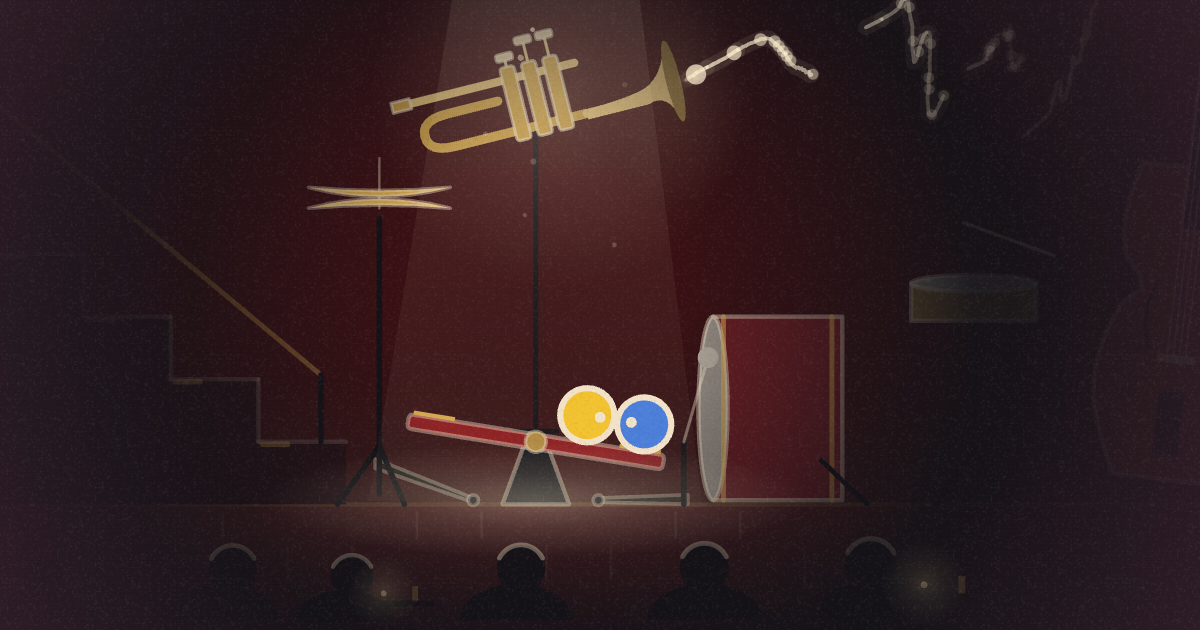
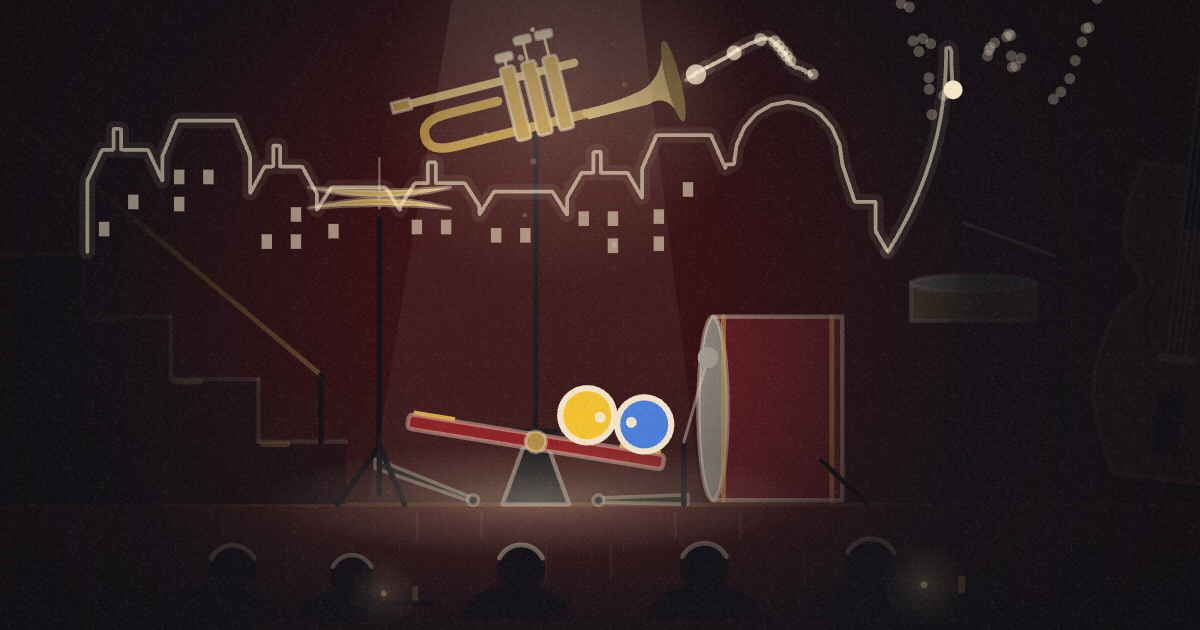
craft(epilogue): less is more: five recent additions cut
A director's subtraction pass over what the last rounds added. Cut:

- the waltz's braided coil in the sky, which crowded the constellation and
  the gold piano the scene is about;
- the hill's rows of houses, which competed with the machine climbing it;
- the home movie's hand-held sway, on top of the gate's own weave;
- the dream's rose edge, now said by the narrow and wide frame, and a muddy
  haze over the drive and the last room;
- the audition's gold star, a second gesture after the pen's signature.

Their two checks go with them. The share card is made again without the rose.

diff --git a/apps/rube/checks/sebs.ts b/apps/rube/checks/sebs.ts
@@ -5,7 +5,7 @@
 import type { Performance, Version } from '../src/shows/registry'
 import type { ShowBall } from '../src/show'
 import { R } from '../src/parts'
-import { FIGURE_AT, FIGURE_SIZE, FIGURE_TURN, KINDLED, figureDraw, inSky, waltzTrail } from '../src/shows/versions/la-la-land/sebs/night/stars'
+import { FIGURE_AT, FIGURE_SIZE, FIGURE_TURN, KINDLED, figureDraw, inSky } from '../src/shows/versions/la-la-land/sebs/night/stars'
 import { DIP, sebAt } from '../src/shows/versions/la-la-land/sebs/night/painted-waltz'
 import { OUT as HOLLY_OUT } from '../src/shows/versions/la-la-land/sebs/studio/hollywood'
 import { show as sebsShow, covers as sebsCovers } from '../src/shows/versions/la-la-land/sebs'
@@ -23,7 +23,7 @@ import { emptyAt } from '../src/shows/versions/la-la-land/sebs/theatre/theatre'
 import { HORIZON, SIGN_AT, SIGN_U, THEIRS, THEIRS_AT, THEIRS_FIGURE } from '../src/shows/versions/la-la-land/sebs/city'
 import { LIPTONS_CALL } from '../src/shows/versions/la-la-land/sebs/liptons/room'
 import { TABLE_CALL } from '../src/shows/versions/la-la-land/sebs/club/opening'
-import { SONG_COUNT, partStar, songAt } from '../src/shows/versions/la-la-land/sebs/audition/shadow'
+import { SONG_COUNT, songAt } from '../src/shows/versions/la-la-land/sebs/audition/shadow'
 import { BAND_RISING, DREAM_CALL, lastNoteAt } from '../src/shows/versions/la-la-land/sebs/club/finale'
 import { HOUSE_SPAN, houseTop } from '../src/shows/versions/la-la-land/sebs/paris/jazz'
 import { HANDOFF, SKYLINE, soloThreads, towerDrawn } from '../src/shows/versions/la-la-land/sebs/paris/jazz-club'
@@ -257,21 +257,6 @@ export function checkSebs(perf: Performance, version: Version, check: Check): vo
     }
   }
   check('sebs: every star the melody lights is lit in the picture', KINDLED.length === 11 && unseen.length === 0, unseen.join(', '))
-  // Their waltz is written in the sky: the newest of each one's trail, laid into the turning sky, is in the picture.
-  {
-    const trailOut: string[] = []
-    let points = 0
-    for (let T = 303; T < 338.5; T += 0.5) {
-      const [wx, wy] = show.where(T)
-      const [nx, ny] = sebAt(T)
-      const f = cam(T)
-      for (const [x, y] of waltzTrail(T)) {
-        points++
-        if (Math.abs(x + wx - nx - f.x) > (f.cells * 16) / 9 / 2 || Math.abs(y + wy - ny - f.y) > f.cells / 2) { trailOut.push(T.toFixed(1)); break }
-      }
-    }
-    check('sebs: their waltz is written in the sky, its newest stretch in the picture', points > 1000 && trailOut.length === 0, trailOut.slice(0, 6).join(', '))
-  }
   // The credits come up in open sky over the club, not across its roof and pelmet: while a card is up, the roof's line
   // is below the card's last line. (The first card once came up inside the club, on the pelmet's scallops.)
   const roofY = piano[1] + ROOM.roof
@@ -582,20 +567,6 @@ export function checkSebs(perf: Performance, version: Version, check: Check): vo
     let outside = 0
     for (let t = 90.5; t < 133; t += 0.05) if (t < 113.4 || t > 115.6) outside = Math.max(outside, emptyAt(t))
     check('sebs: at her show the empty house shows through only in the lead-in, full again when he springs up', outside === 0 && emptyAt(114.6) > 0.7 && emptyAt(115.6) === 0, `outside ${outside}`)
-  }
-  // At the audition she gets the part: the star off the signed paper comes to rest over her, in the picture, and stays
-  // with her through the flood.
-  {
-    const aud = show.holder(185)
-    const bad: string[] = []
-    for (let t = 190.6; t < 195; t += 0.1) {
-      const q = partStar(t)
-      const m = show.mia(t)
-      if (!q || !m) { bad.push(`${t.toFixed(1)} missing`); break }
-      const x = aud.col + q.x, y = aud.row + q.y
-      if (Math.abs(x - m.x) > 0.05 || y > m.y || m.y - y > 0.6 || !inShot(t, { x, y })) { bad.push(t.toFixed(1)); break }
-    }
-    check('sebs: at the audition the gold star from the signed paper settles over her, in the picture', bad.length === 0 && !partStar(189) , bad.join(', '))
   }
   // The grade: the room as it is muted, the dream in full colour all through, and the colour back at the last frame.
   {

diff --git a/apps/rube/src/shows/versions/la-la-land/sebs/night/stars.ts b/apps/rube/src/shows/versions/la-la-land/sebs/night/stars.ts
@@ -371,70 +371,6 @@ interface StarsState {
   o: Pt
 }
 
-/**
- * Their waltz, written in the sky. From the push-off each of them leaves a thread of light in their own colour, laid
- * into the sky's turning frame where they were, so the dome carries it round: two dancers turning in a turning sky draw
- * a rosette, and over the waltz the record of their dance blooms round the pole in blue and gold, braiding, the newest
- * brightest; on the swell it wheels with the star trails, and it goes with the lamps.
- */
-const TRAIL_DT = 1 / 30
-const TRAIL_FROM = LIFT + 0.4
-const unrot = (q: Pt, a: number): Pt => [q[0] * Math.cos(a) + q[1] * Math.sin(a), -q[0] * Math.sin(a) + q[1] * Math.cos(a)]
-const TRAILS: { s: number; seb: Pt; mia: Pt }[] = (() => {
-  const out: { s: number; seb: Pt; mia: Pt }[] = []
-  for (let s = TRAIL_FROM; s <= LAST; s += TRAIL_DT) {
-    const a = skyAngle(s)
-    const b = sebAt(s)
-    const m = miaAt(s)
-    out.push({ s, seb: unrot([b[0] - POLE[0], b[1] - POLE[1]], a), mia: unrot([m[0] - POLE[0], m[1] - POLE[1]], a) })
-  }
-  return out
-})()
-/** The last `back` seconds of their trails at `T`, in the night's frame: what the checks see. */
-export function waltzTrail(T: number, back = 2): Pt[] {
-  const out: Pt[] = []
-  for (const q of TRAILS) {
-    if (q.s > T) break
-    if (T - q.s <= back) out.push(inSky(q.seb, T), inSky(q.mia, T))
-  }
-  return out
-}
-function drawWaltzTrails(p: p5, k: number, T: number): void {
-  if (T < TRAIL_FROM) return
-  const fade = 1 - smooth(T, DARK[0], DARK[0] + 0.6)
-  if (fade <= 0) return
-  const ctx = p.drawingContext as CanvasRenderingContext2D
-  const LV = 8
-  ctx.save()
-  ctx.lineCap = 'round'
-  ctx.lineJoin = 'round'
-  for (const [who, color] of [['seb', SEB], ['mia', MIA]] as const) {
-    const paths: Path2D[] = Array.from({ length: LV }, () => new Path2D())
-    let prev: Pt | null = null
-    for (const q of TRAILS) {
-      if (q.s > T) break
-      const age = T - q.s
-      // Newest brightest; a long tail, as a star trail's.
-      const a = Math.exp(-age / 9) * smooth(age, 0, 0.35)
-      const at = inSky(q[who], T)
-      if (prev && a > 0.02) {
-        const lv = Math.min(LV - 1, Math.floor(a * LV))
-        paths[lv].moveTo(prev[0] * k, prev[1] * k)
-        paths[lv].lineTo(at[0] * k, at[1] * k)
-      }
-      prev = at
-    }
-    for (const [w, a0] of [[0.07, 0.1], [0.018, 0.75]] as const) {
-      ctx.lineWidth = Math.max(1, w * k)
-      for (let lv = 0; lv < LV; lv++) {
-        ctx.strokeStyle = rgba(color, a0 * fade * ((lv + 0.5) / LV))
-        ctx.stroke(paths[lv])
-      }
-    }
-  }
-  ctx.restore()
-}
-
 export const stars = part<StarsState>(
   {
     name: 'stars',
@@ -484,8 +420,6 @@ export const stars = part<StarsState>(
         const a = (0.4 * smooth(T, KINDLED[0].at, KINDLED[0].at + 0.8) + 0.6 * smooth(T, DIP - 1.6, DIP - 0.8)) * (1 - smooth(T, DARK[0], DARK[0] + 0.5))
         drawPianoFigure(p, k, FIGURE_AT(), FIGURE_SIZE, FIGURE_TURN, draw, a, NIGHT_MAT.gold)
       }
-      // Their waltz, written in the sky.
-      drawWaltzTrails(p, k, T)
       // The lit stars, and theirs in the floor.
       for (const q of KINDLED) {
         if (T < q.at) continue

diff --git a/apps/rube/src/shows/versions/la-la-land/sebs/studio/hollywood.ts b/apps/rube/src/shows/versions/la-la-land/sebs/studio/hollywood.ts
@@ -322,53 +322,6 @@ const SCRUB: [number, number, number][] = (() => {
   return out
 })()
 
-/**
- * The hillside's houses: this is the hill over the city at the magic hour, so it has its homes, small boxes under their
- * roofs tucked in below each stretch of the road, dark against the sunset until their windows come on, a band at a
- * time as the two of them climb past it, on the beats, and going out with the road's lamps at the end of the number.
- * Each: centre x, foot y, width, and when it lights.
- */
-const HOMES: { x: number; y: number; w: number; at: number }[] = (() => {
-  const out: { x: number; y: number; w: number; at: number }[] = []
-  const bands: [number, number][] = [[Y1 + FLOOR, 183], [Y2 + FLOOR, 191], [Y3 + FLOOR, 199], [YC + FLOOR, 207]]
-  bands.forEach(([up, b0], j) => {
-    const foot = up + 1.02
-    const [a, bb] = hillSpan(foot - 0.2)
-    let n = 0
-    for (let x = a + 0.45 + 0.2 * hash(j, 51); x < bb - 0.45; x += 0.62 + 0.28 * hash(Math.round(x * 10), 52 + j)) {
-      if (BUSH.some(([bx, by]) => Math.hypot(x - bx, foot - 0.2 - by) < RB + 0.45)) continue
-      out.push({ x, y: foot, w: 0.34 + 0.12 * hash(n, 53 + j), at: beat(b0 + 0.5 * (n % 4) + 0.25 * hash(n, 57 + j)) })
-      n++
-    }
-  })
-  return out
-})()
-function drawHomes(p: p5, c: Ctx, t: number, s: HollyState): void {
-  const { k, ink, weight } = c
-  const shown = paintAt(15, t)
-  if (shown < 0.02) return
-  const off = 1 - smooth(t, OUT[0], OUT[OUT.length - 1])
-  for (const h of HOMES) {
-    // Clear of the lamp posts on the stretch below.
-    if (s.lamps.some(([lx, ly]) => Math.abs(lx - h.x) < h.w / 2 + 0.12 && ly > h.y && ly - h.y < 0.7)) continue
-    const top = h.y - 0.26
-    const wall = mixHex(M.hillDeep, M.flat, 0.12)
-    p.stroke(rgba(ink, 0.5 * shown))
-    p.strokeWeight(weight * 0.5)
-    p.fill(rgba(wall, shown))
-    p.rect(X(k, h.x - h.w / 2), X(k, top), X(k, h.w), X(k, 0.26))
-    p.fill(rgba(mixHex(M.hillDeep, M.skyCoral, 0.25), shown))
-    p.triangle(X(k, h.x - h.w / 2 - 0.04), X(k, top), X(k, h.x + h.w / 2 + 0.04), X(k, top), X(k, h.x), X(k, top - 0.16))
-    const on = smooth(t, h.at - 0.02, h.at + 0.12) * off * shown
-    if (on > 0.01) glow(p, k, h.x, top + 0.12, 0.45, M.lamp, 0.22 * on)
-    p.noStroke()
-    for (const dx of h.w > 0.4 ? [-0.09, 0.09] : [0]) {
-      p.fill(on > 0.01 ? rgba(M.lamp, 0.25 + 0.7 * on) : rgba(M.hillDeep, shown))
-      p.rect(X(k, h.x + dx - 0.035), X(k, top + 0.07), X(k, 0.07), X(k, 0.09))
-    }
-  }
-}
-
 function drawHill(p: p5, c: Ctx, t: number, s: HollyState): void {
   const { k, ink, weight } = c
   // The near hill stands in its own shadow against the sunset: deep indigo at its foot, a little lighter toward the
@@ -409,7 +362,6 @@ function drawHill(p: p5, c: Ctx, t: number, s: HollyState): void {
       p.ellipse(X(k, x + r * 0.15), X(k, y - r * 0.35), X(k, r * 1.4), X(k, r * 0.5))
     }
   }
-  drawHomes(p, c, t, s)
   // The road: its hairpins first (up the face behind the bushes), then the stretches, blue, a pale line down each.
   const road = paint(15, t, M.road)
   const edge = mixHex(road, ink, 0.35)

diff --git a/apps/rube/src/shows/versions/la-la-land/sebs/audition/shadow.ts b/apps/rube/src/shows/versions/la-la-land/sebs/audition/shadow.ts
@@ -632,51 +632,6 @@ function drawSong(p: p5, k: number, t: number): void {
   ctx.restore()
 }
 
-/**
- * She gets the part: as the pen finishes signing, a gold star lifts off the signed paper and arcs across the screen to
- * her, and settles over her, glowing, through the flood. Gold, like her name in lights over Hollywood.
- */
-const STAR_FROM = PEN[2] + 0.1
-const STAR_AT = LEAP + 0.25
-export function partStar(t: number): { x: number; y: number; a: number; s: number } | null {
-  if (t < STAR_FROM || t > 195.9) return null
-  const [px, py] = penPath(PEN[2])
-  const [mx, my] = miaPath(Math.min(t, STAR_AT))
-  const to: Pt = [mx, my - 0.42]
-  const u = Math.max(0, Math.min(1, (t - STAR_FROM) / (STAR_AT - STAR_FROM)))
-  const e = u * u * (3 - 2 * u)
-  const x = px + (to[0] - px) * e
-  const y = py - 0.1 + (to[1] - py + 0.1) * e - 1.1 * 4 * e * (1 - e)
-  const settled = t > STAR_AT ? miaPath(t) : null
-  return settled ? { x: settled[0], y: settled[1] - 0.42, a: 1, s: 1 + 0.15 * Math.sin((t - STAR_AT) * 5) * Math.exp(-(t - STAR_AT)) } : { x, y, a: Math.min(1, (t - STAR_FROM) / 0.15), s: 0.7 + 0.3 * e }
-}
-function drawPartStar(p: p5, k: number, t: number): void {
-  const q = partStar(t)
-  if (!q) return
-  const ctx = p.drawingContext as CanvasRenderingContext2D
-  const r = 0.11 * q.s
-  ctx.save()
-  ctx.translate(q.x * k, q.y * k)
-  const g = ctx.createRadialGradient(0, 0, 0, 0, 0, r * 3 * k)
-  g.addColorStop(0, rgba(SHADOW_MAT.gold, 0.55 * q.a))
-  g.addColorStop(1, rgba(SHADOW_MAT.gold, 0))
-  ctx.fillStyle = g
-  ctx.fillRect(-r * 3 * k, -r * 3 * k, r * 6 * k, r * 6 * k)
-  ctx.beginPath()
-  for (let i = 0; i < 10; i++) {
-    const a = -Math.PI / 2 + (i * Math.PI) / 5
-    const rr = (i % 2 ? 0.45 : 1) * r * k
-    ctx.lineTo(Math.cos(a) * rr, Math.sin(a) * rr)
-  }
-  ctx.closePath()
-  ctx.fillStyle = rgba(MIA, q.a)
-  ctx.strokeStyle = rgba(INK, 0.8 * q.a)
-  ctx.lineWidth = Math.max(1, 0.012 * k)
-  ctx.fill()
-  ctx.stroke()
-  ctx.restore()
-}
-
 export const shadow = part<ShadowState>(
   {
     name: 'shadow',
@@ -742,7 +697,6 @@ export const shadow = part<ShadowState>(
       pen(p, k, penPath(t), penLean(t))
       lamp(p, k, pose)
       drawSong(p, k, t)
-      drawPartStar(p, k, t)
 
       // At the crest the light eats the shapes and the dark round the screen, from the two of them outward: only they
       // are left in it.

diff --git a/apps/rube/src/shows/versions/la-la-land/sebs/lens.ts b/apps/rube/src/shows/versions/la-la-land/sebs/lens.ts
@@ -11,7 +11,7 @@ const MOVIE: [number, number] = [340.5, 395.3]
 /**
  * The grade: the room as it is, muted; the dream, in full colour, as the film's Epilogue does it. The real club at the
  * start is graded colder and greyer, her yellow and his blue with it; the colour comes in as the spotlight's iris
- * opens on Lipton's (39.95 to 41.9) and goes again as the rose drains out at the waking (451.5 to 453.73). Then on
+ * opens on Lipton's (39.95 to 41.9) and goes again as the colour drains out at the waking (451.5 to 453.73). Then on
  * The End's swell, as his notes rise to become their stars over the city, it comes back: the music brings it.
  */
 export function muted(t: number): number {
@@ -177,20 +177,6 @@ export const lens = scenery<{ iris: IrisAt } | null>({
     g.addColorStop(1, rgba('#000000', 0.2))
     ctx.fillStyle = g
     ctx.fillRect(f.x0 * k, f.y0 * k, w * k, h * k)
-    // The dream's edge: all through the dream a soft glow of its rose at the corners of the frame, the colour the
-    // echoes bring into the real world; the drive and the last room wear it too, until the waking takes it away.
-    const dream = 1 - m
-    if (dream > 0.01) {
-      ctx.globalCompositeOperation = 'screen'
-      // Stronger, and further in, in the drive and the dream's last room, which look most like the room as it is.
-      const near = Math.max(0, Math.min(1, (t - 395.3) / 1.5)) * (1 - Math.max(0, Math.min(1, (t - 451.5) / 1.5)))
-      const d = ctx.createRadialGradient(f.cx * k, f.cy * k, r * (0.6 - 0.14 * near) * k, f.cx * k, f.cy * k, r * 1.02 * k)
-      d.addColorStop(0, rgba('#E46A9A', 0))
-      d.addColorStop(1, rgba('#E46A9A', (0.14 + 0.44 * near) * dream))
-      ctx.fillStyle = d
-      ctx.fillRect(f.x0 * k, f.y0 * k, w * k, h * k)
-      ctx.globalCompositeOperation = 'source-over'
-    }
     const tl = tile()
     if (tl) {
       const fi = Math.floor(t * 24)

diff --git a/apps/rube/src/shows/versions/la-la-land/sebs/movie/movie.ts b/apps/rube/src/shows/versions/la-la-land/sebs/movie/movie.ts
@@ -469,23 +469,6 @@ export function filmWeave(t: number): [number, number] {
   return [dx * on, dy * on]
 }
 
-/**
- * And it was shot by hand: someone in the family holding the camera. While the film fills the frame the picture sways
- * a little, slowly, the way a held camera breathes with its holder, and the zoom wanders in and out a little as a
- * home camera's does. The sway is a part of the frame's height, for the camera to carry; the zoom scales the frame.
- */
-export function handheld(t: number): { dx: number; dy: number; zoom: number } {
-  const on = smooth(t, GATE1, GATE1 + 0.8) * (1 - smooth(t, BACK0 - 0.6, BACK0))
-  if (on <= 0) return { dx: 0, dy: 0, zoom: 1 }
-  const TAU = Math.PI * 2
-  const dx = 0.015 * Math.sin(TAU * 0.31 * t + 0.4) + 0.0085 * Math.sin(TAU * 0.77 * t + 1.3) + 0.0035 * Math.sin(TAU * 1.9 * t + 2.2)
-  const dy = 0.011 * Math.sin(TAU * 0.43 * t + 2.0) + 0.007 * Math.sin(TAU * 0.91 * t + 0.6) + 0.003 * Math.sin(TAU * 2.3 * t + 1.1)
-  // The zoom drifts, in and out a little, never stopping: continuous through the splices, so at a match cut the three
-  // of them still stay exactly where they were.
-  const creep = 1 + 0.035 * Math.sin(TAU * t / 7.3 + 0.8) + 0.018 * Math.sin(TAU * t / 3.1 + 2.4)
-  return { dx: dx * on, dy: dy * on, zoom: 1 + (creep - 1) * on }
-}
-
 function drawFilm(p: p5, t: number, c: Ctx): void {
   const { k } = c
   const fr = frame(p, k)

diff --git a/apps/rube/src/shows/versions/la-la-land/sebs/score.ts b/apps/rube/src/shows/versions/la-la-land/sebs/score.ts
@@ -24,7 +24,7 @@ import { jazz } from './paris/jazz'
 import { trumpet } from './paris/trumpet'
 import { painted } from './night/painted'
 import { stars } from './night/stars'
-import { filmWeave, handheld, movie } from './movie/movie'
+import { filmWeave, movie } from './movie/movie'
 import { drive } from './movie/drive'
 
 /**
@@ -221,13 +221,10 @@ export function compose(): { show: SebsShow; camera: (t: number) => Framing; cov
   const shots: Shot[] = [{ t: 0, cells: 5 }, ...dreamChain.shots, ...ending]
   const follow = director((t) => show.where(t), shots, DURATION)
   // In the home movie the picture weaves in the gate: the camera carries it, so the balls in the film weave too.
-  // And it is shot by hand: a slow sway, and each shot's zoom creeping in (`handheld`).
   const camera = (t: number): Framing => {
     const f = follow(t)
     const [dx, dy] = filmWeave(t)
-    const h = handheld(t)
-    if (!dx && !dy && h.zoom === 1) return f
-    return { ...f, x: f.x + (dx + h.dx) * f.cells, y: f.y + (dy + h.dy) * f.cells, cells: f.cells * h.zoom }
+    return dx || dy ? { ...f, x: f.x + dx * f.cells, y: f.y + dy * f.cells } : f
   }
   return { show, camera, covers: coverList }
 }
